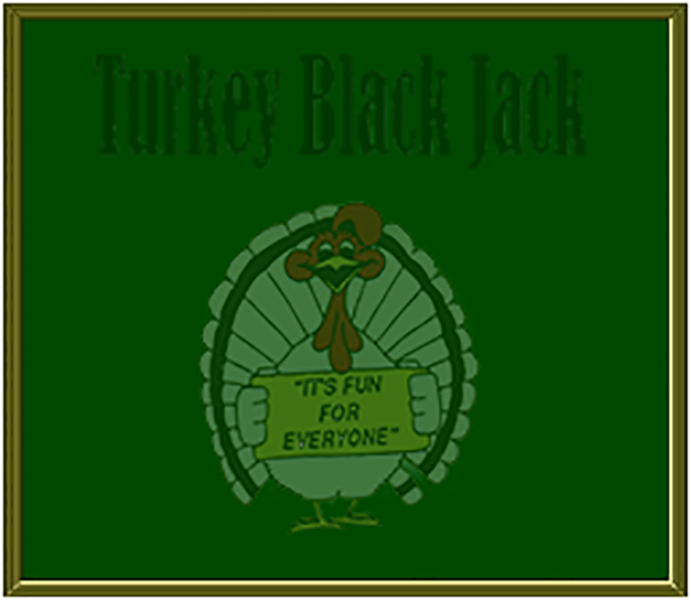
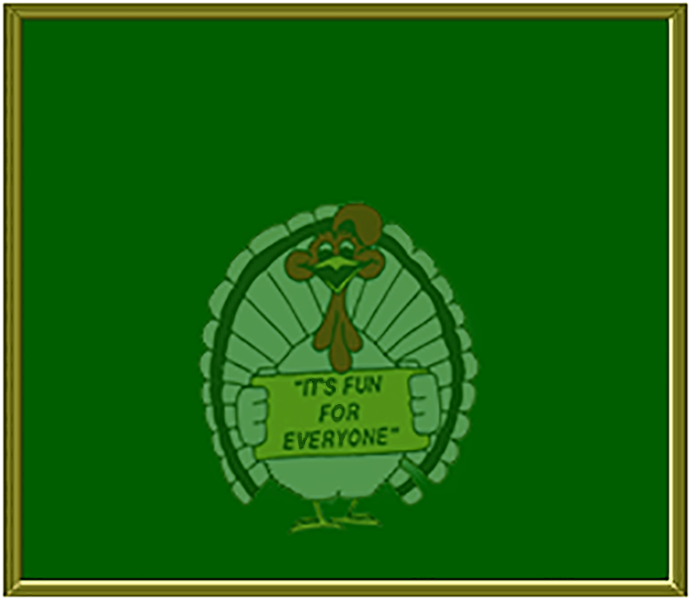
changed some background images and styles for the loginreg

Changed region(s): [[0.2735, 0.33, 0.699, 0.9], [0.1216, 0.09, 0.8509, 0.3], [0.0, 0.0, 1.0, 0.99]]

diff --git a/apps/turkey_blackjack/templates/turkey_blackjack/index.html b/apps/turkey_blackjack/templates/turkey_blackjack/index.html
@@ -9,7 +9,7 @@
   <link rel="stylesheet" href="{% static 'turkey_blackjack/css/styles.css' %}" media="screen">
 </head>
 <body>
-  <main class="sixty">
+  <main>
     <div id="dealerHand"></div>
     <div id="yourHand" class="center"></div>
     <!-- <div id="yourScore">Your Score: <span class="digits">0</span> Record: <span id="wins">0</span>&nbsp;/&nbsp;<span id="losses">0</span></div> -->
@@ -23,6 +23,9 @@
       <label for="bet">Your Bet:</label>
       <input type="number" name="bet" min="1" max="{{ request.session.user.money }}" value="5">
     </form>
+    <div id="hand">
+
+    </div>
     <div class="center ninety">
       <button class="btn btn-pop" id="deal">Deal</button>
       <button class="btn btn-imp" id="hit">Hit</button>

diff --git a/apps/turkey_blackjack/static/turkey_blackjack/css/styles.css b/apps/turkey_blackjack/static/turkey_blackjack/css/styles.css
@@ -4,12 +4,18 @@
 	box-sizing: border-box;
 	font-family: sans-serif;
 }
+body{
+	/*background-image: url('../images/Cornucopia.jpg');*/
+}
 
 main {
 	border: 1px solid gray;
 	box-shadow: 1px 1px 5px gray;
 	margin: 50px auto;
-	background-image: url('../images/Cornucopia.jpg');
+	background: url('../images/Table.png') no-repeat 0 0;
+	background-size: cover;
+	height: 600px;
+	width: 691px;
 }
 
 form {
@@ -130,9 +136,6 @@ input {
     border-radius:3px;
     -moz-border-radius:3px;
     -webkit-border-radius:3px;
-    background: url('../images/Table.png') no-repeat 0 0;
-  	width: 691px;
-  	height: 600px;
     color:#69D1A7;
     padding:.5em;
     font-size:1.1em;

diff --git a/apps/logreg/templates/logreg/index.html b/apps/logreg/templates/logreg/index.html
@@ -9,6 +9,10 @@
 	<title>Thanksgiving Trail of Turkeys</title>
 	<link rel="stylesheet" href="{% static 'logreg/css/css_boilerplate.css' %}" media="screen">
 	<style media="screen">
+		#title{
+			margin-top: 12%;
+			font-family: "Courier New", Courier, monospace;
+		}
 		section {
 			display: inline-block;
 			vertical-align: middle;
@@ -41,6 +45,7 @@
 	</style>
 </head>
 <body>
+	<h1 id="title">The Turkey Trail</h1>
 	<main class="eighty">
 		<section class="fifty">
 			<h1>Register</h1>

diff --git a/apps/logreg/static/logreg/css/css_boilerplate.css b/apps/logreg/static/logreg/css/css_boilerplate.css
@@ -5,11 +5,18 @@
 	font-family: sans-serif;
 }
 
+body{
+	background-image: url('../images/Autumn_LoginReg.jpg');
+	background-size: cover;
+}
+
 main {
 	border: 1px solid gray;
 	box-shadow: 1px 1px 5px gray;
-	margin: 50px auto;
+	margin: 6% auto;
 	padding: 20px;
+	background-color: rgba(255, 255, 255, 0.7);
+	border-radius: 20px;
 }
 
 form {
